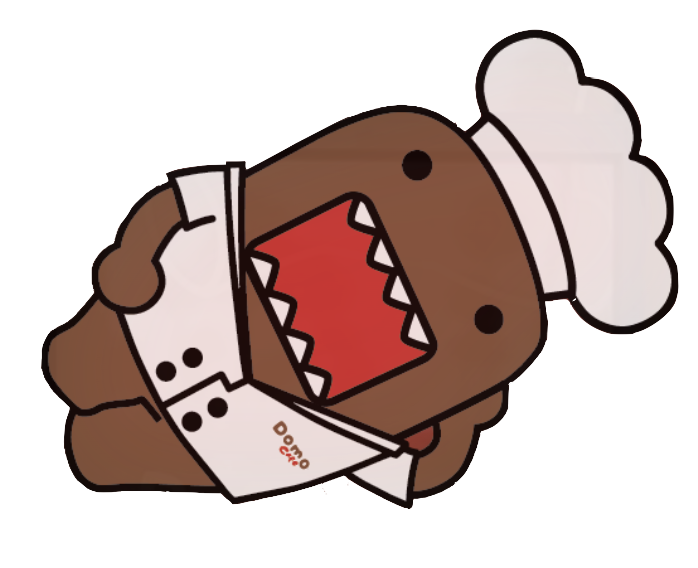
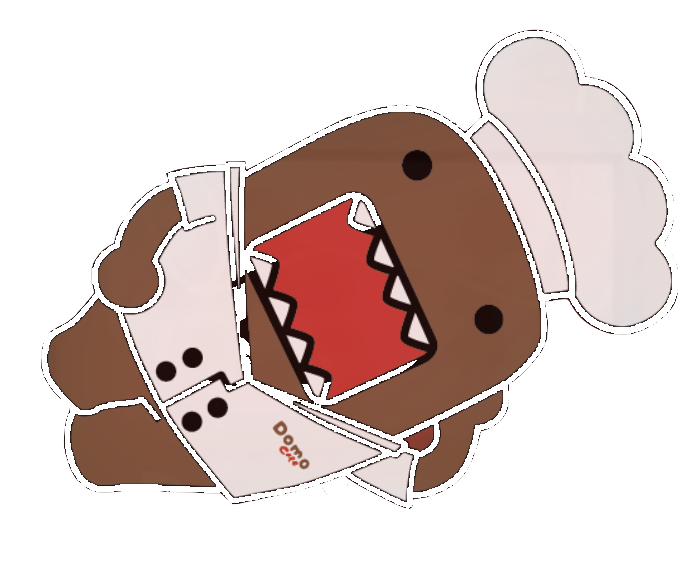
Show only colored Chef Domo lineart, never black silhouettes
Replace dual-panel source PNGs with color-only crops and remove the
brightness(0) invert silhouette filter so every mascot frame renders
as full-color lineart. Leave chef-domo-10.png (wide sprite sheet) unchanged.

diff --git a/index-hours-test.html b/index-hours-test.html
@@ -295,11 +295,11 @@
     width: 100%; height: 100%;
     object-fit: contain; object-position: bottom center;
     opacity: 0;
-    filter: brightness(0) invert(1);
+    filter: none; /* colored lineart only — no silhouette */
     transition: opacity 1.6s ease-in-out;
     pointer-events: none;
   }
-  .sil-frame.active { opacity: 0.82; }
+  .sil-frame.active { opacity: 1; }
   .sil-frame.full-color { filter: none; }
   .silhouette-label {
     font-family: 'DM Sans', sans-serif;
@@ -2148,7 +2148,7 @@
       wrap.style.filter = 'drop-shadow(0 0 32px rgba(204,34,34,0.85))';
       frames.forEach(f => f.classList.add('full-color'));
     } else {
-      frames.forEach(f => f.classList.remove('full-color'));
+      /* keep full-color */ frames.forEach(f => f.classList.add('full-color'));
       if (daysToGo <= 3) {
         wrap.style.clipPath = 'none';
         wrap.style.filter = 'drop-shadow(0 0 16px rgba(204,34,34,0.5))';
